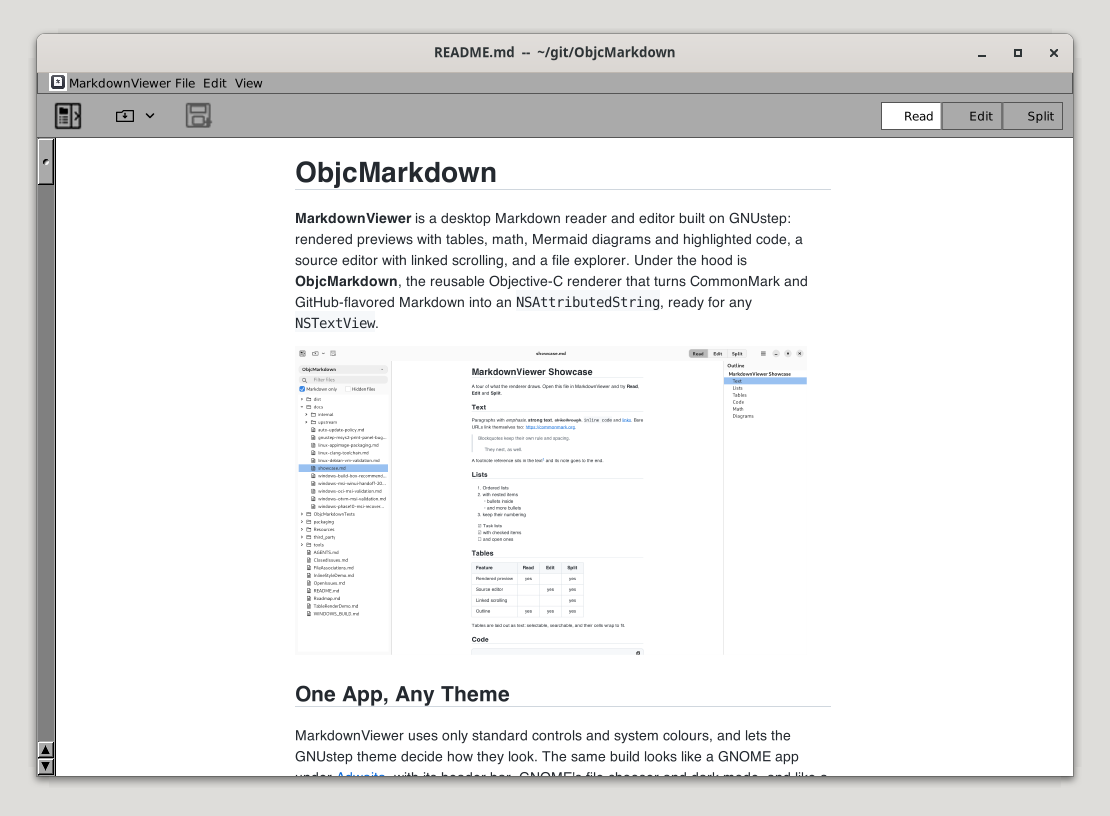
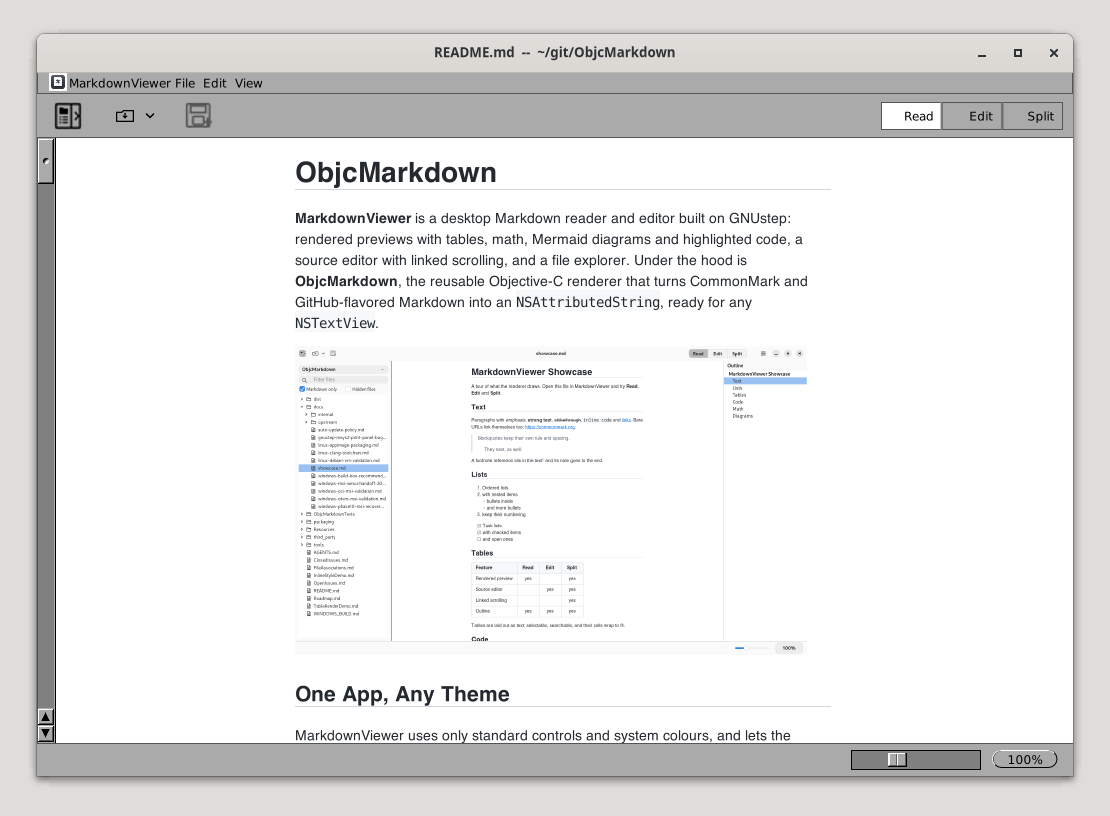
README: screenshots for the current theme, and a dark-style row (#49)
The Adwaita side of the three side-by-side pairs is retaken for main
after 0.1.0-alpha6 (libadwaita 1.7's colours and controls), and
MarkdownViewer's GNUstep side too, as its document had changed. A new
row shows MarkdownViewer and ThemeDemo's controls in GNOME's dark style;
app.sh gains README_SHOTS_STYLE=dark for it. The Controls reference is
retaken. ScreenshotTool is left out of the dark row: its toolbar icons
are nearly invisible on the dark header bar, cause not yet found.

diff --git a/Docs/Screenshots/README.md b/Docs/Screenshots/README.md
@@ -2,11 +2,14 @@
 
 ## `compare/`: GNUstep's theme and Adwaita
 
-The README's side-by-side shots. Taken 2026-10-07 (MarkdownViewer and
-ScreenshotTool retaken the same day with the primary menu) on a private Xvfb with
+The README's side-by-side shots. The Adwaita side was retaken on 2026-10-08
+for the theme on `main` after 0.1.0-alpha6 (libadwaita 1.7's colours and
+controls, #55-#62); MarkdownViewer's GNUstep side too, as the document it
+shows had changed. The GNUstep sides of ScreenshotTool and Gorm are from
+2026-10-07. All on a private Xvfb with
 GNOME Shell 48.7 (X11) as the window manager, never on a real desktop, with
 libs-gui and libs-back built with the patches in `Docs/upstream-patches/`, the
-theme built from this repository (0.1.0-alpha5 plus `main`), light style,
+theme built from this repository, light style (dark for the dark row),
 Cantarell 11 and empty GNUstep user defaults, so nothing a user set reaches
 either side. Each app ran once per theme, by `-GSTheme GNUstep` or
 `-GSTheme <repo>/Adwaita.theme`.
@@ -21,6 +24,14 @@ $H/app.sh "$W" Adwaita <app> [file] &
 $H/place.sh "$W" "<title>" Adwaita 1036 740
 $H/shot.sh "$W" out.png
 $H/stop.sh "$W"                   # also deletes $W
+```
+
+For GNOME's dark style, run the app with `README_SHOTS_STYLE=dark` in its
+environment: `app.sh` then gives it a copy of the session's settings with
+`color-scheme='prefer-dark'`.
+
+```sh
+README_SHOTS_STYLE=dark $H/app.sh "$W" Adwaita <app> [file] &
 ```
 
 Close an app between the two themes. An app with an edited document waits
@@ -76,9 +87,19 @@ Inspector). Then:
 Gorm's own windows run with compact metrics (#24), and its inspectors are
 cramped at GNOME's fonts (#26): the shots show both as they are.
 
+### The dark row
+
+`compare/markdownviewer-adwaita-dark.png` follows MarkdownViewer's steps
+with `README_SHOTS_STYLE=dark`; `compare/themedemo-controls-adwaita-dark.png`
+is ThemeDemo's controls page (below) the same way. ScreenshotTool isn't in
+the dark row: in dark style its toolbar icons are nearly invisible on the
+header bar (cause not yet found: the theme reports a dark window
+background to it), which would misrepresent the theme until that is
+fixed.
+
 ## `theme-*.png`
 
-ThemeDemo's controls, text and data pages under Adwaita, taken 2026-10-07 in
+ThemeDemo's controls, text and data pages under Adwaita, taken 2026-10-08 in
 the same session as `compare/`:
 
 ```sh

diff --git a/README.md b/README.md
@@ -45,6 +45,20 @@ with this one:
   </tr>
 </table>
 
+<table>
+  <tr>
+    <th colspan="2">Adwaita, dark style</th>
+  </tr>
+  <tr>
+    <td width="50%"><img src="Docs/Screenshots/compare/markdownviewer-adwaita-dark.png" alt="MarkdownViewer with Adwaita in GNOME's dark style: a dark header bar with the toolbar, the Read, Edit and Split switcher and the primary menu, over the same document"></td>
+    <td width="50%"><img src="Docs/Screenshots/compare/themedemo-controls-adwaita-dark.png" alt="The theme's demo app in dark style: blue default button and checked boxes with white marks, ringed unchecked radio, the slider's light knob, pop-up and stepper"></td>
+  </tr>
+  <tr>
+    <td align="center"><a href="https://github.com/danjboyd/ObjcMarkdown">MarkdownViewer</a></td>
+    <td align="center">ThemeDemo's controls page</td>
+  </tr>
+</table>
+
 What changes: libadwaita's header bar, with the window's toolbar in it and
 GNOME's window buttons; its buttons, entries, switches, check boxes and
 pop-ups; menus as popovers with the primary ☰ menu; overlay scrollbars;
